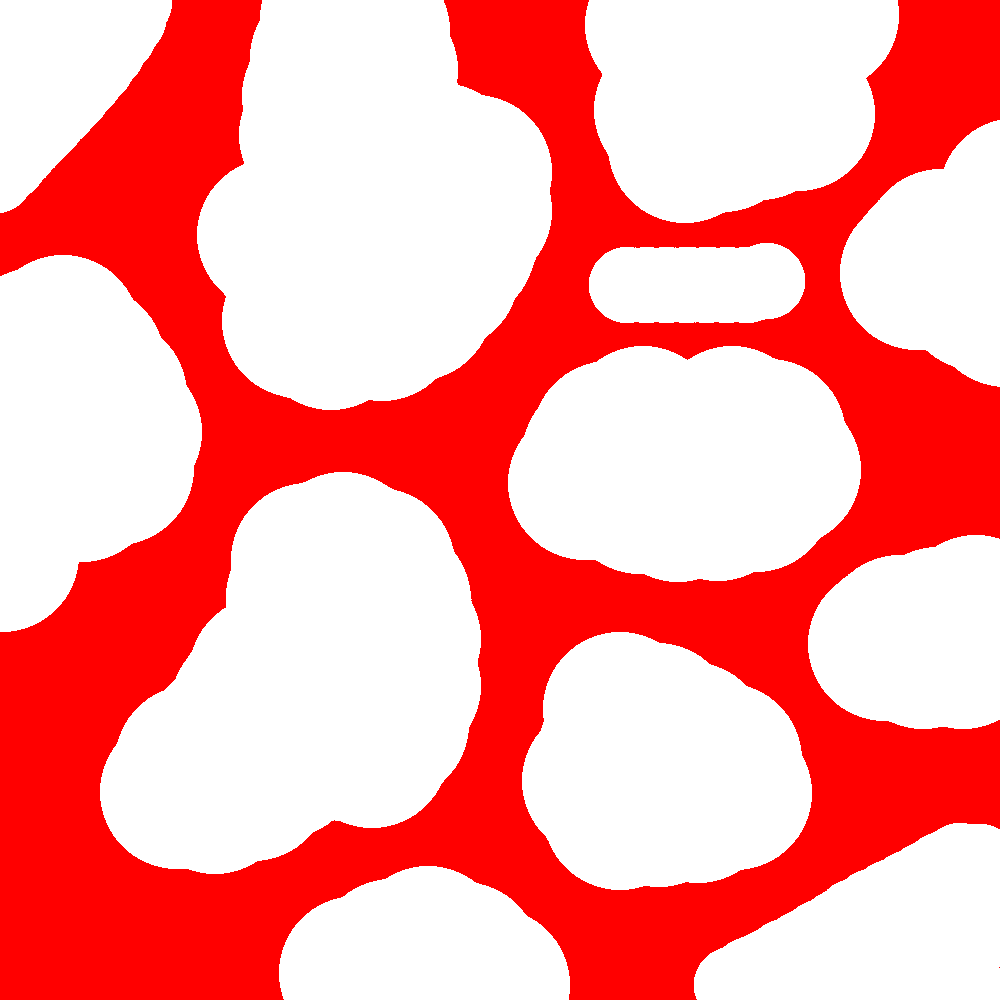
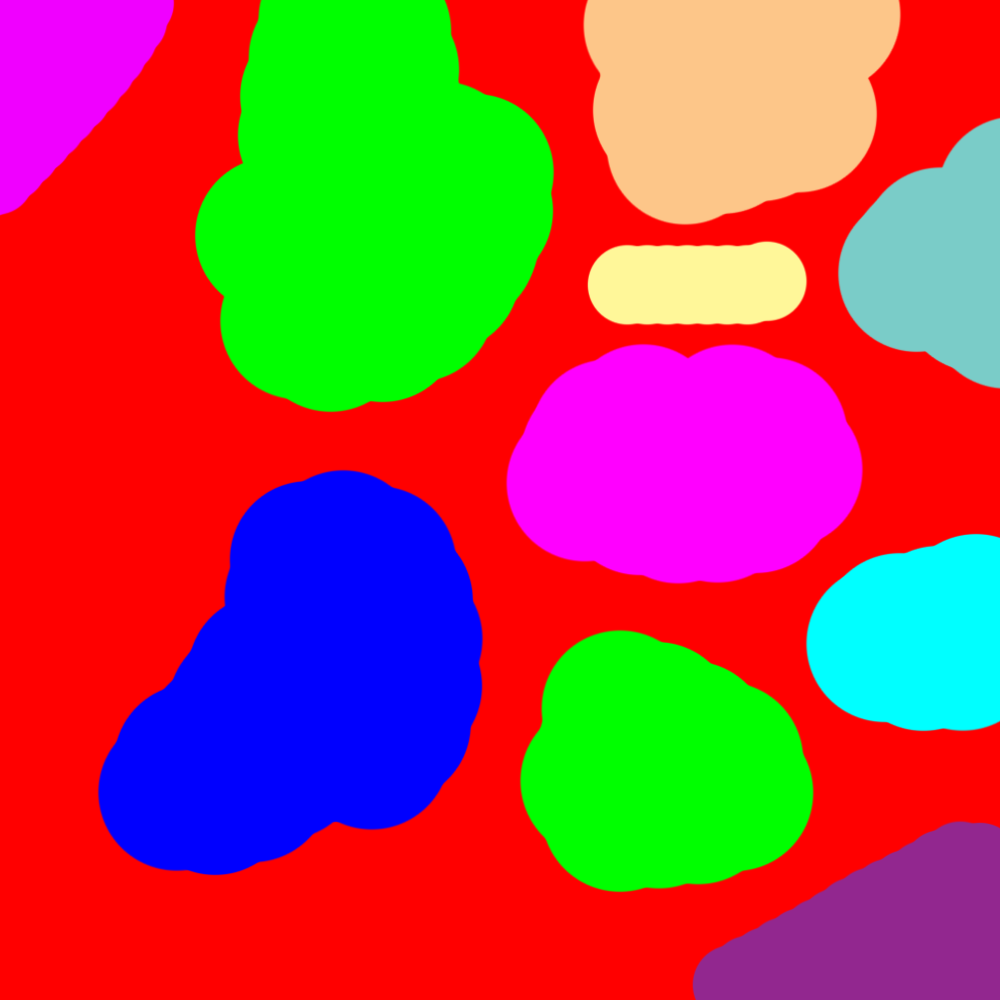
wip
before write output, combine input_image and output_image together (input_image stay upper most)

diff --git a/FillBakeTextureMain.py b/FillBakeTextureMain.py
@@ -12,6 +12,9 @@ width, height = input_image.size
 # Create an empty canvas with the same resolution
 output_image = Image.new("RGBA", (width, height))
 
+# Create a new empty canvas
+combined_image = Image.new("RGBA", (width, height))
+
 # Iterate over each pixel in the input image
 for y in range(height):
     for x in range(width):
@@ -24,6 +27,8 @@ for y in range(height):
             output_image.putpixel((x, y), (255, 0, 0, 255))
 
 
+combined_image = Image.alpha_composite(combined_image, output_image)
+combined_image = Image.alpha_composite(combined_image, input_image)
 
 # Save the output image
-output_image.save("images/test01_output.png")
+combined_image.save("images/test01_output.png")
